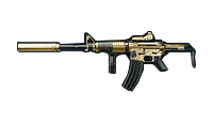
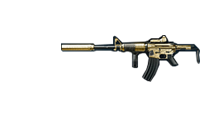
fix (calculator): fix slack

Changed region(s): [[0.0548, 0.2564, 0.9315, 0.7949]]

diff --git a/src/components/calculator/shared/SelectableCardButton.tsx b/src/components/calculator/shared/SelectableCardButton.tsx
@@ -74,14 +74,18 @@ export function SelectableCardButton({
         />
       )}
 
-      {/* Lock icon */}
+      {/* Lock overlay — centered with semi-transparent backdrop */}
       {locked && (
-        // eslint-disable-next-line @next/next/no-img-element
-        <img
-          src="/images/icons/services/lock.svg"
-          alt=""
-          className="absolute right-[11px] top-[11px] h-6 w-6"
-        />
+        <div className="absolute inset-0 z-10 flex items-center justify-center rounded-2xl bg-[rgba(19,41,52,0.6)]">
+          <div className="flex flex-col items-center gap-1">
+            {/* eslint-disable-next-line @next/next/no-img-element */}
+            <img
+              src="/images/icons/services/lock.svg"
+              alt=""
+              className="h-8 w-8"
+            />
+          </div>
+        </div>
       )}
     </button>
   );